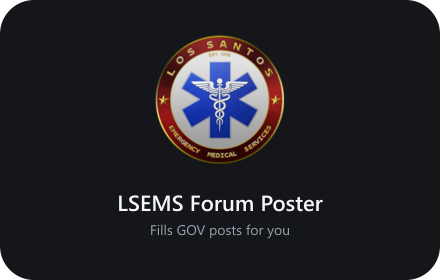
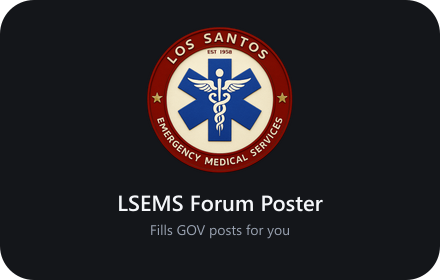
feat: use the new General emblem across the app
The higher-resolution emblem is now public/General.png, the one file the app
already draws everywhere - the favicon, the sidebar and the division headers -
so the Select Division card no longer needs a separate copy and the card-only
field that pointed at it is gone. The sign-in card shows the mark too, so a
signed-out member sees the same one they get inside.

The generated BBCode is untouched: it carries General.data.image, the remote
URL, and that declaration is unchanged.

Changed region(s): [[0.325, 0.0857, 0.6795, 0.6286]]

diff --git a/src/app/login/page.tsx b/src/app/login/page.tsx
@@ -1,4 +1,5 @@
 import type { Metadata } from "next";
+import Image from "next/image";
 import { Suspense } from "react";
 import { LoginButton } from "@/app/login/LoginButton";
 
@@ -12,6 +13,17 @@ export default function LoginPage() {
     <div className="flex min-h-[calc(100vh-3rem)] items-center justify-center p-6">
       <div className="w-full max-w-sm rounded-lg border border-border/40 bg-surface p-8 text-center space-y-6">
         <div className="flex flex-col items-center gap-4">
+          {/* The one emblem the app owns - the same file the sidebar, the
+              page headers and the favicon draw, so a signed-out member is
+              already looking at the same mark they will see inside. */}
+          <Image
+            src="/General.png"
+            alt=""
+            width={64}
+            height={64}
+            className="h-16 w-16 object-contain"
+            priority
+          />
           <div className="space-y-1">
             <h1 className="text-xl font-semibold tracking-tight">
               LSEMS

diff --git a/src/app/constants/divisions/index.ts b/src/app/constants/divisions/index.ts
@@ -27,15 +27,6 @@ import { RED } from "./red";
 export type DivisionPage = {
   label: string;
   image: string;
-  /**
-   * A higher-resolution emblem for the division-templates selector's card,
-   * when the one above is too small to survive being shown there. It is only
-   * ever read by that card: every other consumer - the sidebar, the division
-   * header, the quick-links browser, the Staff Page and the emblem a generated
-   * document carries - keeps `image`, so a card can look better without any of
-   * them changing.
-   */
-  cardImage?: string;
   data: DivisionData;
 };
 

diff --git a/src/app/constants/divisions/general.ts b/src/app/constants/divisions/general.ts
@@ -3,10 +3,6 @@ import { ranksForDivision } from "@/configs/roles";
 export const General = {
   label: "General",
   image: "/General.png",
-  // The Select Division card is the one place the new emblem is used: it is
-  // shown at 48px there, where the 150x150 `image` above is visibly soft.
-  // Nothing else reads this - see `cardImage` on `DivisionPage`.
-  cardImage: "/General-card.png",
   data: {
     imageSize: "150,150",
     image: "https://i.ibb.co/dsKf0v2p/C6b52lr.png",

diff --git a/src/app/(routes)/operations/division-templates/components/DivisionSelector.tsx b/src/app/(routes)/operations/division-templates/components/DivisionSelector.tsx
@@ -37,7 +37,7 @@ export default function DivisionSelector({
             >
               <div className="mb-2 flex h-12 w-12 items-center justify-center transition-transform duration-200 hover:scale-[1.02]">
                 <Image
-                  src={item.cardImage ?? item.image}
+                  src={item.image}
                   alt={item.label}
                   width={48}
                   height={48}
